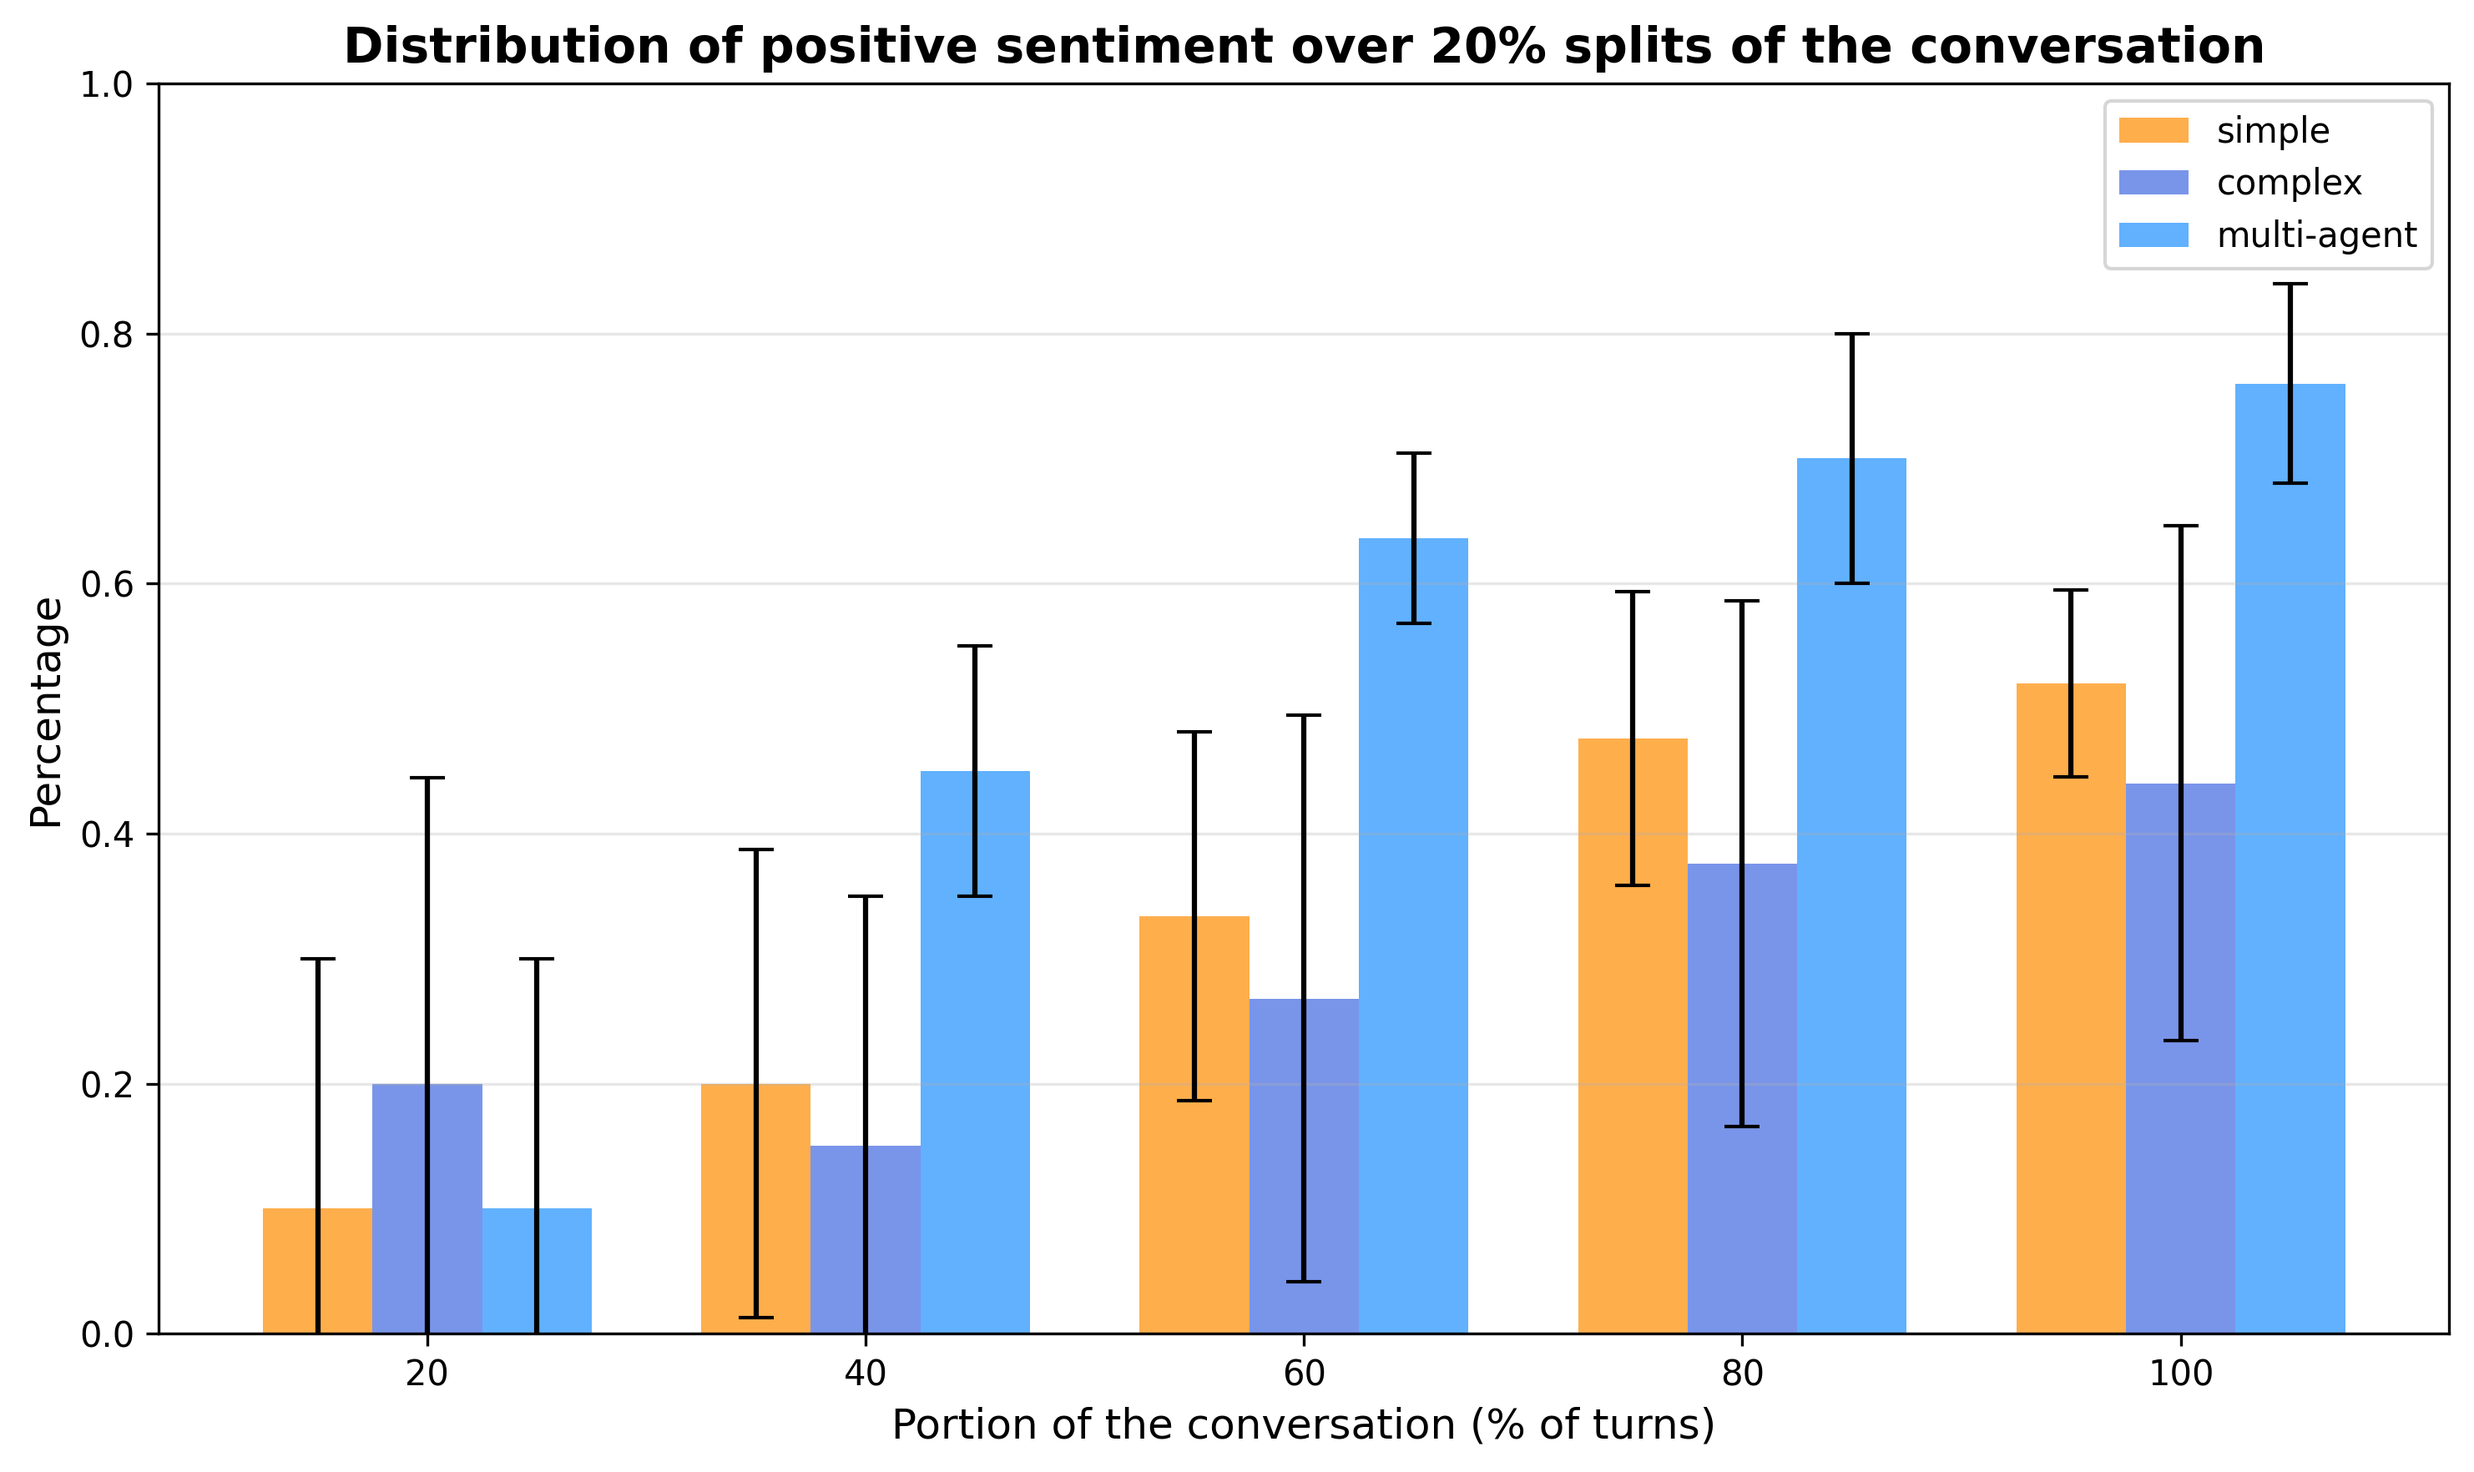
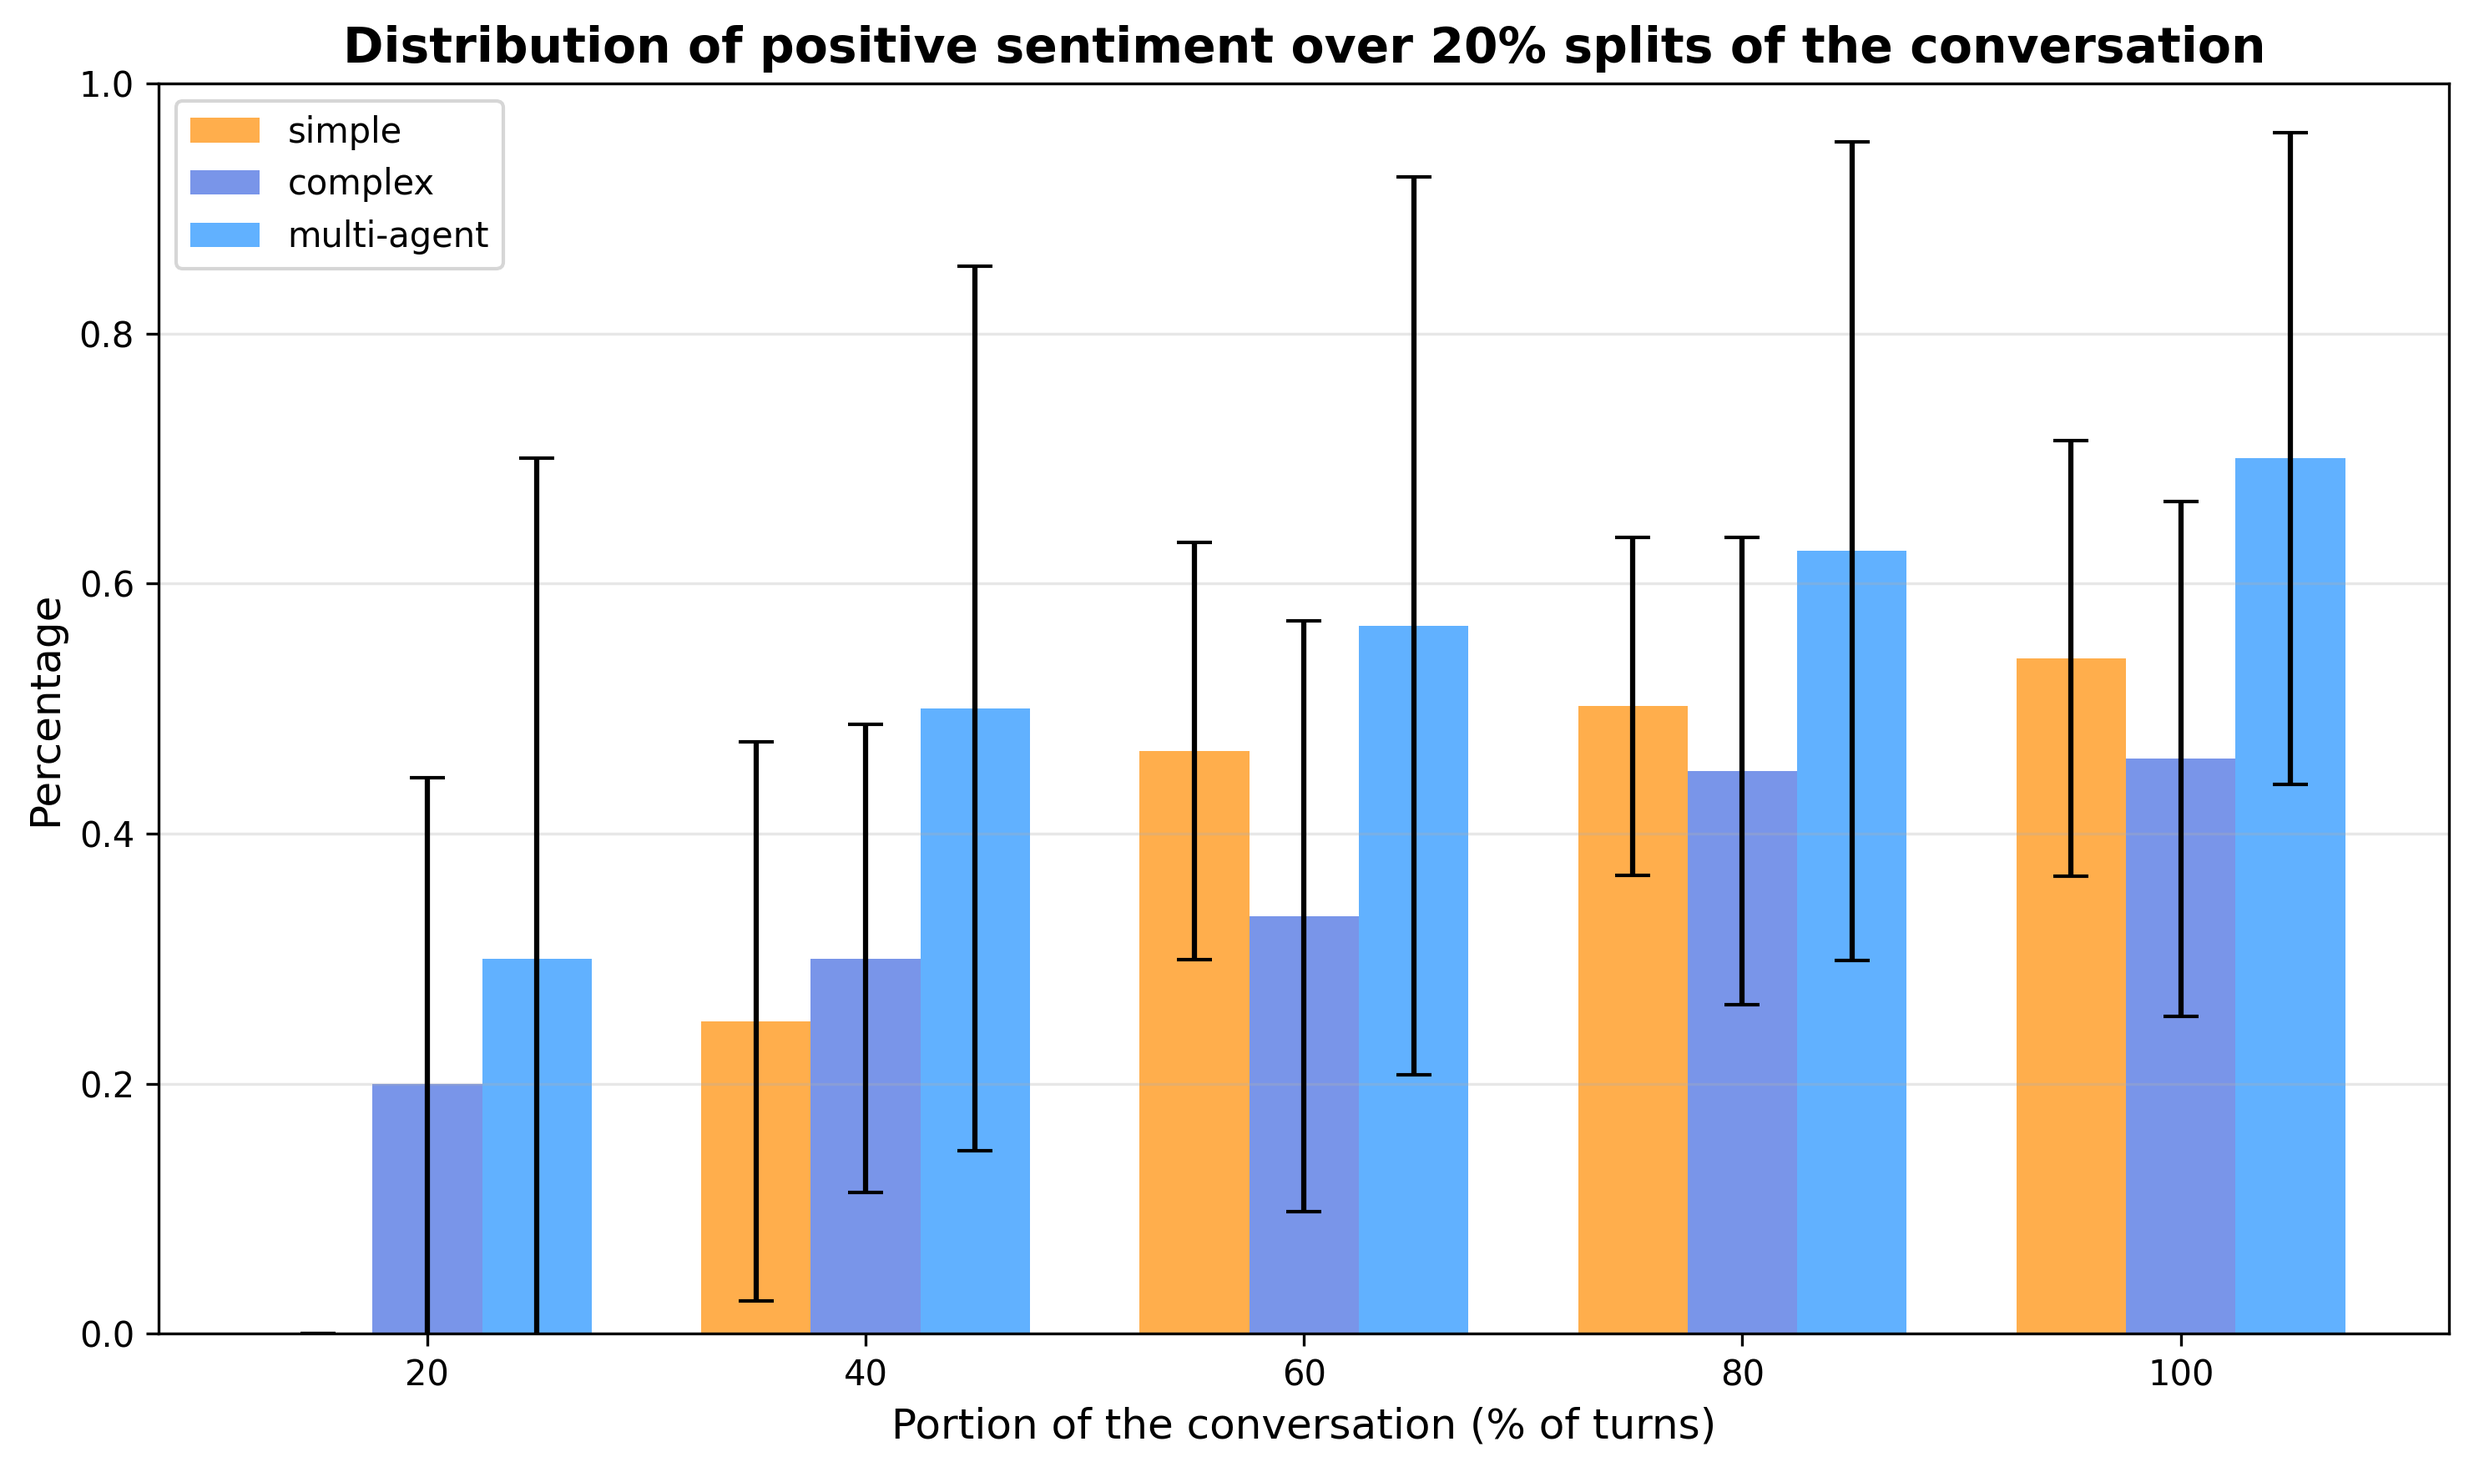
updates plots

diff --git a/Eval/lsm_analysis.py b/Eval/lsm_analysis.py
@@ -16,6 +16,13 @@ import pandas as pd
 # Add project root to path to import utils
 sys.path.append(os.path.dirname(os.path.dirname(os.path.abspath(__file__))))
 
+CSV_DIR = os.path.join(os.path.dirname(os.path.abspath(__file__)), "csv")
+
+
+def ensure_csv_dir():
+    """Create csv output directory if missing."""
+    os.makedirs(CSV_DIR, exist_ok=True)
+
 
 class LSMCalculator:
     """
@@ -295,6 +302,7 @@ def extract_turn_pairs(transcript_path, max_turns=10):
 
 def main():
     root_dir = os.path.dirname(os.path.dirname(os.path.abspath(__file__)))
+    ensure_csv_dir()
     
     saved_sessions_dir = os.path.join(root_dir, 'Saved_Sessions')
     saved_tests_dir = os.path.join(root_dir, 'saved_tests')
@@ -400,7 +408,7 @@ def main():
     # 4. Save Output
     if final_rows:
         df = pd.DataFrame(final_rows)
-        output_path = os.path.join(root_dir, 'Eval', 'lsm_dataset_by_turn.csv')
+        output_path = os.path.join(CSV_DIR, 'lsm_dataset_by_turn.csv')
         df.to_csv(output_path, index=False)
         print(f"\nSaved LSM dataset to {output_path}")
         print(df.head(20))
@@ -431,7 +439,7 @@ def main():
                 
             # Save to CSV similar to metrics_output_{mode}.csv
             output_csv_name = f'lsm_metrics_{mode}.csv'
-            output_csv_path = os.path.join(root_dir, 'Eval', output_csv_name)
+            output_csv_path = os.path.join(CSV_DIR, output_csv_name)
             grouped.to_csv(output_csv_path, index=False)
             print(f"Saved aggregated metrics to {output_csv_path}")
 

diff --git a/Eval/calculate_metrics.py b/Eval/calculate_metrics.py
@@ -6,6 +6,14 @@ import json
 from datetime import datetime
 import statistics
 
+
+CSV_DIR = os.path.join(os.path.dirname(os.path.abspath(__file__)), "csv")
+
+
+def ensure_csv_dir():
+    """Create csv output directory if it does not exist."""
+    os.makedirs(CSV_DIR, exist_ok=True)
+
 def parse_transcript_turns(file_path):
     """
     Parses the transcript and returns lists of metrics PER TURN PAIR.
@@ -140,6 +148,7 @@ def get_test_run_info(test_dir):
 def aggregate_metrics(root_dir):
     saved_sessions_dir = os.path.join(root_dir, 'Saved_Sessions')
     saved_tests_dir = os.path.join(root_dir, 'saved_tests')
+    ensure_csv_dir()
 
     # 1. Collect Test Runs
     test_runs = []
@@ -218,7 +227,7 @@ def aggregate_metrics(root_dir):
             output_rows.append(f"{i+1},{avg_c:.2f},{avg_cl:.2f},{avg_r:.2f}")
 
         # Save to CSV
-        out_file = os.path.join(os.path.dirname(os.path.abspath(__file__)), f'metrics_output_{mode}.csv')
+        out_file = os.path.join(CSV_DIR, f'metrics_output_{mode}.csv')
         with open(out_file, 'w') as f:
             f.write("\n".join(output_rows))
         print(f"Saved: {out_file}")
